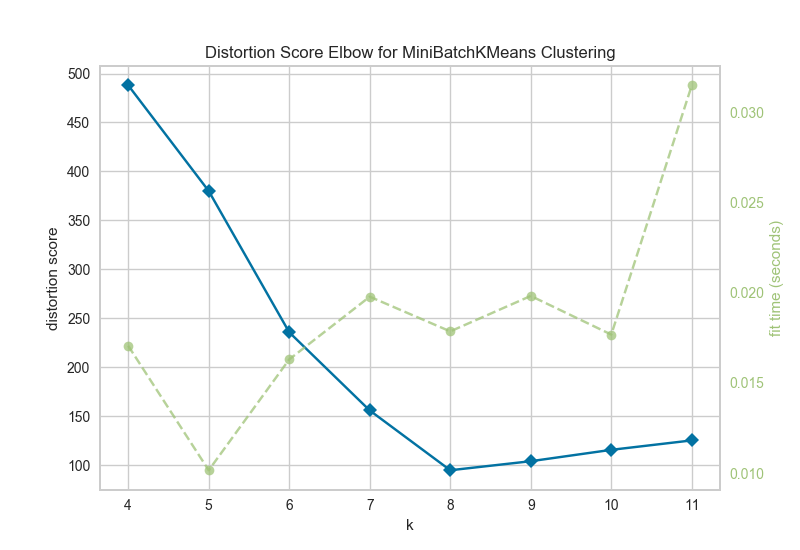
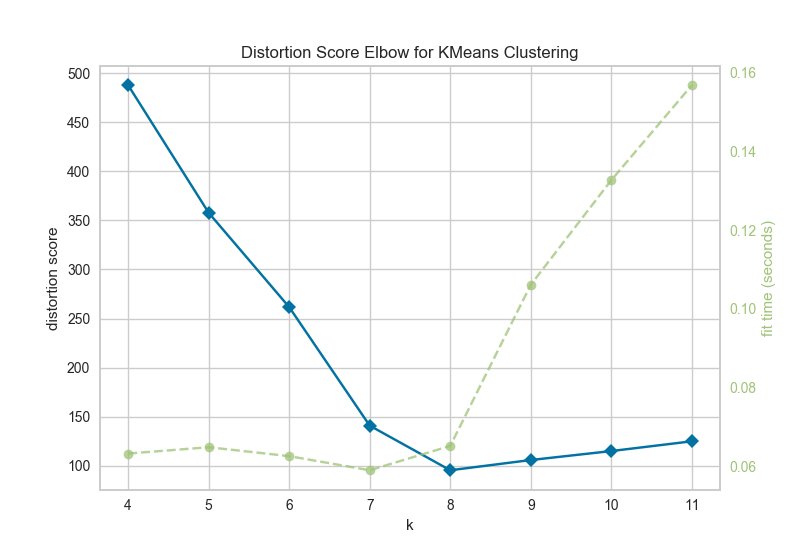
Update documentation of the KElbowVisualizer
- Expanded the documentation for the KElbowVisualizer by showing how a
user could using a different scoring metric and hide the time to fit the
model.
- I removed the "elbow_is_behind.png" image that was added to the KElbowVisualizer documentation in PR #635 because it was not generated by elbow.py so it was not rendering correctly in elbow.rst.

Resolves #651
See Also #515

diff --git a/docs/api/cluster/elbow.py b/docs/api/cluster/elbow.py
@@ -1,27 +1,55 @@
-# Clustering Evaluation Imports
-from functools import partial
+#!/usr/bin/env python
 
-from sklearn.cluster import MiniBatchKMeans
-from sklearn.datasets import make_blobs as sk_make_blobs
+"""
+Generate images for the elbow plot documentation.
+"""
 
+# Import necessary modules
+import matplotlib.pyplot as plt
+
+from sklearn.cluster import KMeans
+from sklearn.datasets import make_blobs
 from yellowbrick.cluster import KElbowVisualizer
 
-# Helpers for easy dataset creation
-N_SAMPLES = 1000
-N_FEATURES = 12
-SHUFFLE = True
 
-# Make blobs partial
-make_blobs = partial(sk_make_blobs, n_samples=N_SAMPLES, n_features=N_FEATURES, shuffle=SHUFFLE)
+def draw_elbow(path="images/elbow.png"):
+    # Generate synthetic dataset with 8 blobs
+    X, y = make_blobs(
+        centers=8, n_features=12, n_samples=1000,
+        shuffle=True, random_state=42
+    )
+
+    # Create a new figure to draw the clustering visualizer on
+    _, ax = plt.subplots()
+
+    # Instantiate the clustering model and visualizer
+    model = KMeans()
+    visualizer = KElbowVisualizer(model, ax=ax, k=(4,12))
+
+    visualizer.fit(X)                # Fit the data to the visualizer
+    visualizer.poof(outpath=path)    # Draw/show/poof the data
+
+
+def draw_calinski_harabaz(path="images/calinski_harabaz.png"):
+    # Generate synthetic dataset with 8 blobs
+    X, y = make_blobs(
+        centers=8, n_features=12, n_samples=1000,
+        shuffle=True, random_state=42
+    )
+
+    # Create a new figure to draw the clustering visualizer on
+    _, ax = plt.subplots()
+
+    # Instantiate the clustering model and visualizer
+    model = KMeans()
+    visualizer = KElbowVisualizer(
+        model, ax=ax, k=(4,12),
+        metric='calinski_harabaz', timings=False
+    )
+    visualizer.fit(X)                # Fit the data to the visualizer
+    visualizer.poof(outpath=path)    # Draw/show/poof the data
 
 
 if __name__ == '__main__':
-    # Make 8 blobs dataset
-    X, y = make_blobs(centers=8)
-
-    # Instantiate the clustering model and visualizer
-    # Instantiate the clustering model and visualizer
-    visualizer = KElbowVisualizer(MiniBatchKMeans(), k=(4,12))
-
-    visualizer.fit(X) # Fit the training data to the visualizer
-    visualizer.poof(outpath="images/elbow.png") # Draw/show/poof the data
+    draw_elbow()
+    draw_calinski_harabaz()

diff --git a/docs/api/cluster/elbow.rst b/docs/api/cluster/elbow.rst
@@ -3,44 +3,56 @@
 Elbow Method
 ============
 
-The elbow method for :math:`K` selection visualizes multiple clustering models with different values for :math:`K`. Model selection is based on whether or not there is an "elbow" in the curve; e.g. if the curve looks like an arm, if there is a clear change in angle from one part of the curve to another. Based off the given example in the first chart below, the best :math:`K` is 8.
+The ``KElbowVisualizer`` implements the "elbow" method to help data scientists select the optimal number of clusters by fitting the model with a range of values for :math:`K`. If the line chart resembles an arm, then the "elbow" (the point of inflection on the curve) is a good indication that the underlying model fits best at that point.
 
-The best :math:`K` value is one which the SSE (sum of square error) decreases abruptly. In essence, the "start" of the elbow.
-
-For a given :math:`K` value, single integer or iterable, if there is no visible elbow, the elbow may be beyond or behind the given :math:`K`. Take the second chart displayed below. Displayed is a chart using the same data as the first, however the given :math:`K` starts after the elbow, as seen in the chart above.
-
-In the event that there is no elbow or multiple elbows are found, the use of k-means may need to be re-evaluated based on the context of the current issue.
+To demonstrate, in the following example the ``KElbowVisualizer`` fits the ``KMeans`` model for a range of :math:`K` values from 4 to 11 on a sample two-dimensional dataset with 8 random clusters of points. When the model is fit with 8 clusters, we can see an "elbow" in the graph, which in this case we know to be the optimal number.
 
 .. code:: python
 
     from sklearn.datasets import make_blobs
 
-    # Make 8 blobs dataset
-    X, y = make_blobs(centers=8)
+    # Create synthetic dataset with 8 random clusters
+    X, y = make_blobs(centers=8, n_features=12, shuffle=True, random_state=42)
 
 .. code:: python
 
-    from sklearn.cluster import MiniBatchKMeans
-
+    from sklearn.cluster import KMeans
     from yellowbrick.cluster import KElbowVisualizer
 
     # Instantiate the clustering model and visualizer
-    visualizer = KElbowVisualizer(MiniBatchKMeans(), k=(4,12))
+    model = KMeans()
+    visualizer = KElbowVisualizer(model, k=(4,12))
 
-    visualizer.fit(X) # Fit the training data to the visualizer
-    visualizer.poof() # Draw/show/poof the data
+    visualizer.fit(X)    # Fit the data to the visualizer
+    visualizer.poof()    # Draw/show/poof the data
     
 .. image:: images/elbow.png
 
+By default, the scoring parameter ``metric`` is set to ``distortion``, which
+computes the sum of squared distances from each point to its assigned center.
+However, two other metrics can also be used with the ``KElbowVisualizer`` -- ``silhouette`` and ``calinski_harabaz``. The ``silhouette`` score calculates the mean Silhouette Coefficient of all samples, while the ``calinski_harabaz`` score computes the ratio of dispersion between and within clusters.
+
+The ``KElbowVisualizer`` also displays the amount of time to train the clustering model per :math:`K` as a dashed green line, but is can be hidden by setting ``timings=False``. In the following example, we'll use the ``calinski_harabaz`` score and hide the time to fit the model.
+
 .. code:: python
-    # Poor choice for k, where the best k lies lower than 10
-    # Same data as above
-    visualizer = KElbowVisualizer(model, k=(10,16))
+
+    from sklearn.cluster import KMeans
+    from yellowbrick.cluster import KElbowVisualizer
+    
+    # Instantiate the clustering model and visualizer
+    model = KMeans()
+    visualizer = KElbowVisualizer(
+        model, k=(4,12), metric='calinski_harabaz', timings=False
+    )
 
     visualizer.fit(X)    # Fit the data to the visualizer
     visualizer.poof()    # Draw/show/poof the data
 
-.. image:: images/elbow_is_behind.png
+
+.. image:: images/calinski_harabaz.png
+
+It is important to remember that the "elbow" method does not work well if the data
+is not very clustered. In this case, you might see a smooth curve and the optimal value of :math:`K` will be unclear.
 
 API Reference
 -------------
